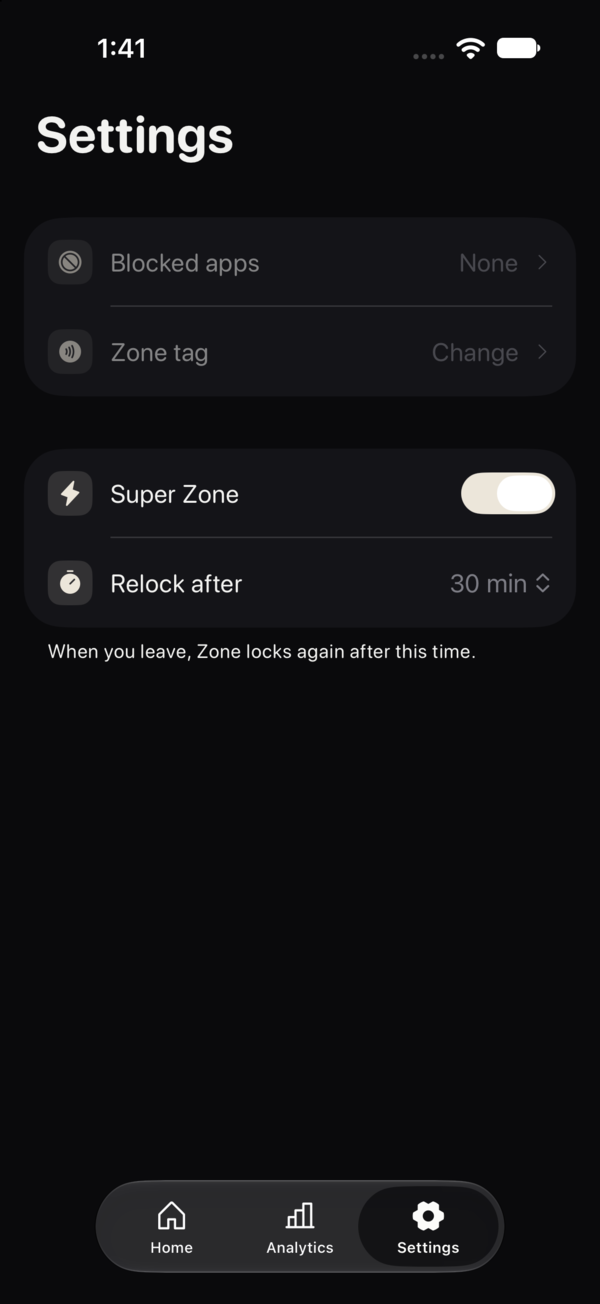
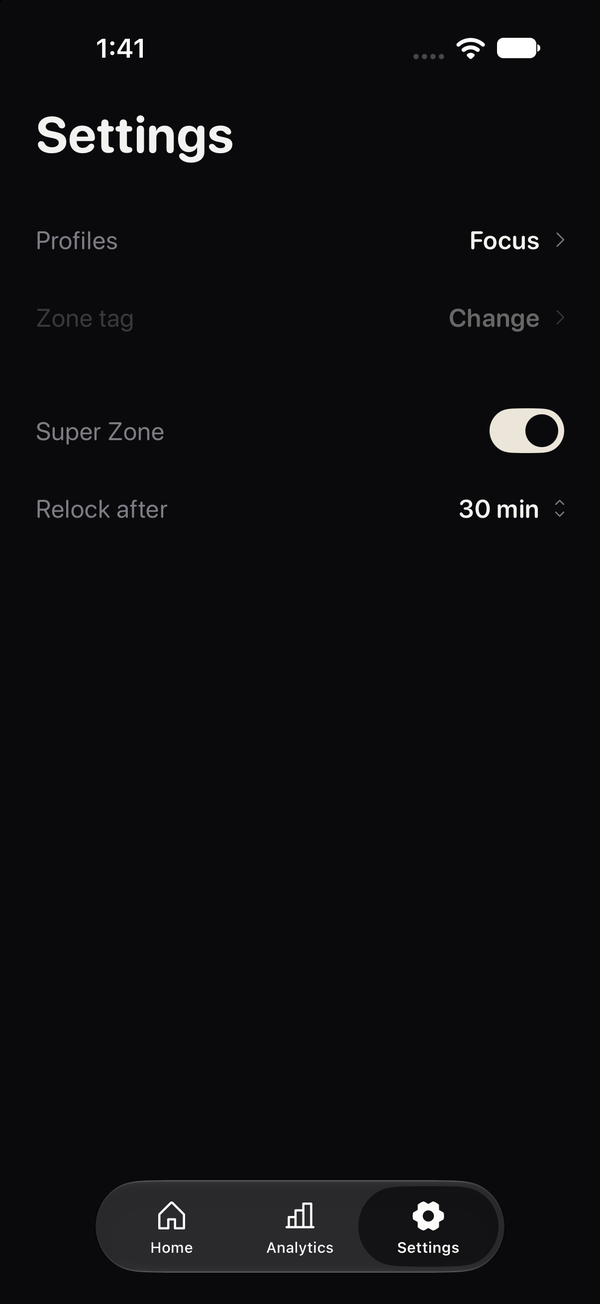
Make Settings plain label and value rows like Home

diff --git a/Zone/SettingsView.swift b/Zone/SettingsView.swift
@@ -11,43 +11,104 @@ struct SettingsView: View {
         let locked = store.isZoned || store.relockAt != nil
         VStack(spacing: 0) {
             ZoneTitle("Settings")
-            Form {
-                Section {
+            ScrollView {
+                VStack(spacing: 0) {
                     Button { showingProfiles = true } label: {
-                        ZoneRow("stack-fill", "Profiles", value: store.profiles.current.name)
+                        row("Profiles", value: store.profiles.current.name) { ZoneCaret() }
                     }
                     Button {
                         Task {
                             if let id = await scanner.scan() { store.registerTag(id) }
                         }
                     } label: {
-                        ZoneRow("contactless-payment-fill", "Zone tag", value: store.registeredTagID == nil ? "Register" : "Change")
+                        row("Zone tag", value: store.registeredTagID == nil ? "Register" : "Change") { ZoneCaret() }
                     }
                     .disabled(locked)
-                }
-                .listRowBackground(Color.zoneCard)
-                Section {
-                    Toggle(isOn: $store.superZone) {
-                        ZoneRowLabel("lightning-fill", "Super Zone")
+                    VStack(spacing: 0) {
+                        Toggle("Super Zone", isOn: $store.superZone)
+                            .toggleStyle(ZoneToggleStyle())
+                        Menu {
+                            Picker("Relock after", selection: $store.relockMinutes) {
+                                ForEach(ZoneStore.relockChoices, id: \.self) { Text("\($0) min") }
+                            }
+                        } label: {
+                            row("Relock after", value: "\(store.relockMinutes) min") {
+                                Image("caret-up-down")
+                                    .resizable()
+                                    .frame(width: 14, height: 14)
+                                    .foregroundStyle(Color.zoneMute)
+                            }
+                        }
                     }
-                    .tint(Color.zoneBone)
-                    Picker(selection: $store.relockMinutes) {
-                        ForEach(ZoneStore.relockChoices, id: \.self) { Text("\($0) min") }
-                    } label: {
-                        ZoneRowLabel("timer-fill", "Relock after")
-                    }
-                    .tint(Color.zoneMute)
-                } footer: {
-                    Text("When you leave, Zone locks again after this time.")
+                    .disabled(store.relockAt != nil)
+                    .padding(.top, 24)
                 }
-                .disabled(store.relockAt != nil)
-                .listRowBackground(Color.zoneCard)
+                .buttonStyle(ZoneRowStyle())
+                .padding(.horizontal, 24)
+                .padding(.top, 24)
             }
-            .scrollContentBackground(.hidden)
         }
         .frame(maxWidth: .infinity, maxHeight: .infinity)
         .background(Color.zoneBackground)
         .sheet(isPresented: $showingProfiles) { ProfilesView() }
         .tagScanAlert(scanner)
+    }
+
+    // The same label and value row as on Home.
+    private func row(_ label: String, value: String, @ViewBuilder caret: () -> some View) -> some View {
+        HStack(spacing: 6) {
+            Text(label)
+                .foregroundStyle(Color.zoneMute)
+                .layoutPriority(1)
+            Spacer()
+            Text(value)
+                .fontWeight(.semibold)
+                .lineLimit(1)
+                .monospacedDigit()
+            caret()
+                // The caret ink ends 4 pt inside its frame. Line it up with the switch edge.
+                .padding(.trailing, -4)
+        }
+        .font(.system(size: 17))
+        .frame(height: 52)
+        .contentShape(.rect)
+    }
+}
+
+// A settings row: dim when pressed, and faded like ZoneButtonStyle when disabled.
+private struct ZoneRowStyle: ButtonStyle {
+    @Environment(\.isEnabled) private var isEnabled
+
+    func makeBody(configuration: Configuration) -> some View {
+        configuration.label
+            .opacity(isEnabled ? (configuration.isPressed ? 0.6 : 1) : 0.4)
+    }
+}
+
+// A bone switch: a dark knob on bone when on, a grey knob on the track when off.
+private struct ZoneToggleStyle: ToggleStyle {
+    func makeBody(configuration: Configuration) -> some View {
+        Button { configuration.isOn.toggle() } label: {
+            HStack {
+                configuration.label
+                    .foregroundStyle(Color.zoneMute)
+                Spacer()
+                Capsule()
+                    .fill(configuration.isOn ? Color.zoneBone : Color.zoneTrack)
+                    .frame(width: 50, height: 30)
+                    .overlay(alignment: configuration.isOn ? .trailing : .leading) {
+                        Circle()
+                            .fill(configuration.isOn ? Color.zoneBackground : Color.zoneMute)
+                            .padding(4)
+                    }
+                    .animation(.smooth(duration: 0.2), value: configuration.isOn)
+            }
+            .font(.system(size: 17))
+            .frame(height: 52)
+            .contentShape(.rect)
+        }
+        .buttonStyle(ZoneRowStyle())
+        .accessibilityAddTraits(.isToggle)
+        .accessibilityValue(configuration.isOn ? "On" : "Off")
     }
 }
